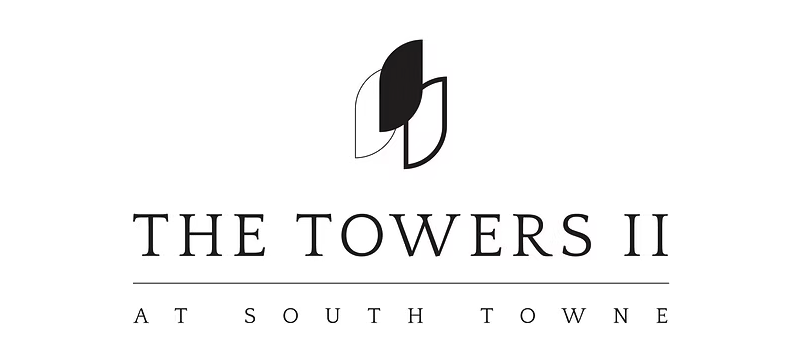
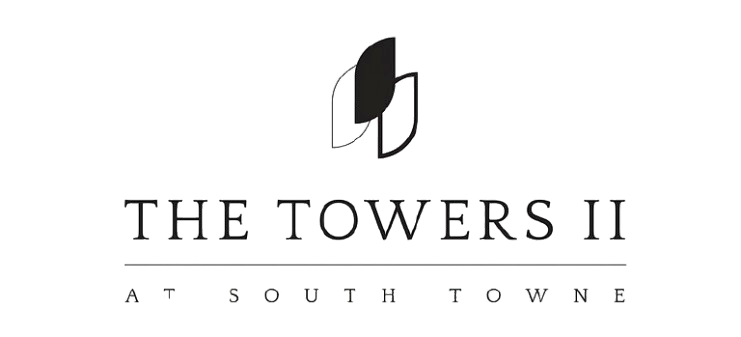
spb

diff --git a/components/Partners.tsx b/components/Partners.tsx
@@ -2,8 +2,8 @@ import Image from "next/image";
 
 const partners = [
   { name: "The Towers", src: "/The towers.png" },
-  { name: "Best Company", src: "/best_company.png" },
-  { name: "Fireclay Studios", src: "/fireclay_studios.png" },
+  { name: "Best Company", src: "/best_company-removebg-preview.png" },
+  { name: "Fireclay Studios", src: "/fireclay.png" },
   { name: "Summit Foot & Ankle", src: "/summit_foot_ankle.png" },
 ];
 
@@ -31,7 +31,7 @@ export default function Partners() {
               key={p.name}
               className="bg-[#0F0F11] hover:bg-[#18181B] transition-colors duration-300 flex items-center justify-center py-10 px-8 group"
             >
-              <div className="relative w-full h-16 opacity-60 group-hover:opacity-100 transition-opacity duration-300">
+              <div className="relative w-full h-16 brightness-0 invert opacity-50 group-hover:opacity-100 transition-opacity duration-300">
                 <Image
                   src={p.src}
                   alt={p.name}